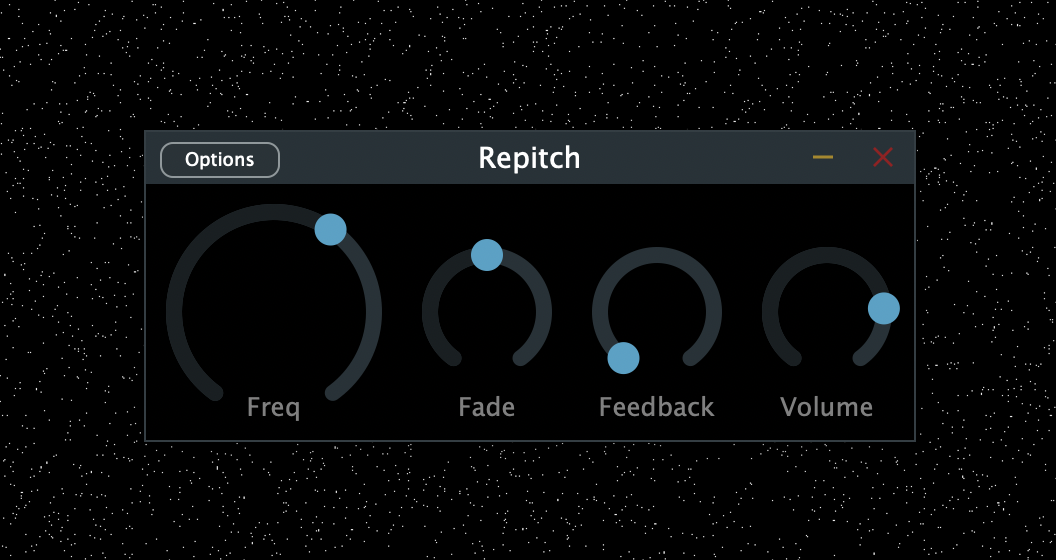
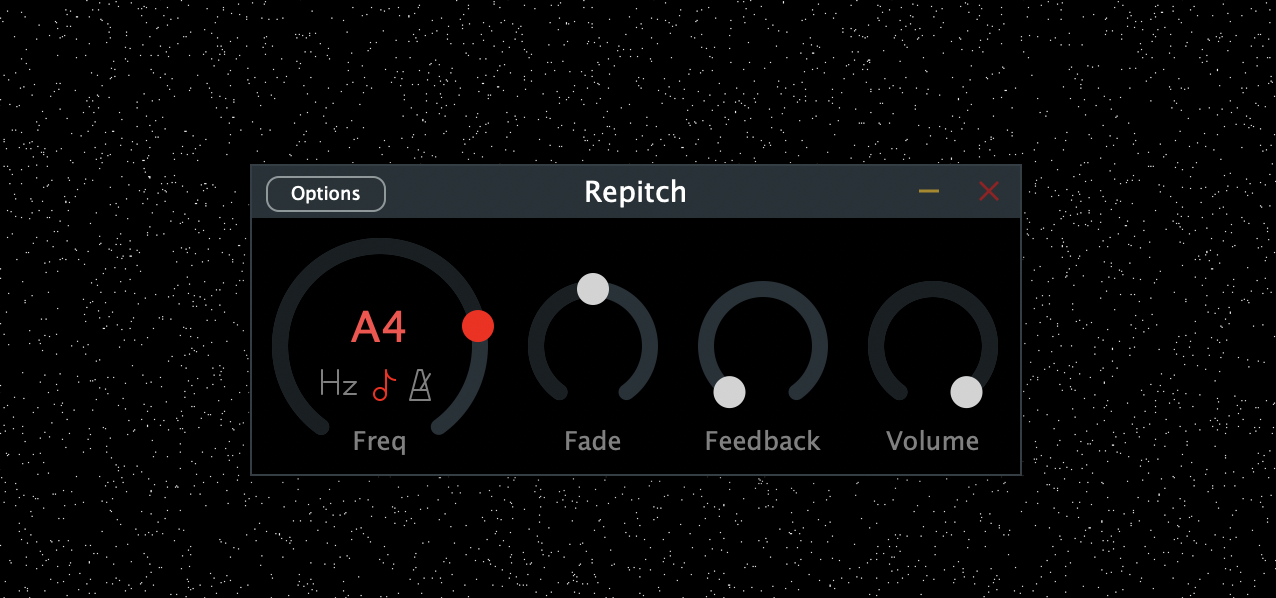
Add pitch + tempo tuning, tanh on output

Changed region(s): [[0.125, 0.2125, 0.875, 0.8196]]

diff --git a/Source/PluginEditor.cpp b/Source/PluginEditor.cpp
@@ -13,32 +13,116 @@
 
 //==============================================================================
 
-RepitchAudioProcessorEditor::RepitchAudioProcessorEditor (RepitchAudioProcessor& p, AudioProcessorValueTreeState& vts)
-    : AudioProcessorEditor (&p), processor (p), vts(vts)
+double TunableSlider::roundToNearestOctave(double value, double freq)
+{
+    return 69 + 12 * (round((value-69) / 12 - log2(freq/440)) + log2(freq/440));
+}
+
+double TunableSlider::snapValue(double input, DragMode dm)
+{
+    switch (mode)
+    {
+        case Hz:
+            return input;
+        case Pitch:
+            return round(input);
+        case Tempo:
+            return roundToNearestOctave(input, bpm/60);
+    }
+}
+
+String TunableSlider::getTextFromValue(double value)
+{
+    switch (mode)
+    {
+        case Hz:
+            return String(440 * pow(2, (value - 69) / 12));
+        case Pitch:
+        {
+            String noteNames[12] = {"C","C#","D","D#","E","F","F#","G","G#","A","A#","B"};
+            return noteNames[int(value+1200)%12] + String(floor(value/12)-1);
+        }
+        case Tempo:
+            double tempoValue = pow(2,(value-69) / 12 - log2(bpm/60/440));
+            if (tempoValue>1)
+                return "1/" + String(round(tempoValue));
+            else
+                return String(round(1/tempoValue));
+    }
+}
+
+void TunableSlider::paint(Graphics& g)
+{
+    Slider::paint(g);
+    g.setColour(findColour(Slider::thumbColourId).brighter());
+    g.setFont(25.f);
+    g.drawText(getTextFromValue(getValue()), 28, 36, 72, 36, Justification::centred, false);
+}
+
+void LineButton::paintButton(Graphics& g, bool highlighted, bool down)
+{
+    g.setColour(getToggleState() || down ? onColour : offColour);
+    g.strokePath(path, PathStrokeType(1, PathStrokeType::JointStyle::curved, PathStrokeType::EndCapStyle::rounded));
+}
+
+//==============================================================================
+
+RepitchAudioProcessorEditor::RepitchAudioProcessorEditor (RepitchAudioProcessor& p, AudioProcessorValueTreeState& vts) :
+    AudioProcessorEditor (&p),
+    processor (p),
+    vts(vts),
+    pitchSlider(Slider::RotaryVerticalDrag, Slider::NoTextBox, p.bpm),
+    hzButton("Hz", "M 1 4 L 1 16 M 9 4 L 9 16 M 2 10 L 9 10 M 18 10 L 12 16 M 12 10 L 18 10 M 12 16 L 18 16", Colours::cyan, Colours::grey),
+    noteButton("Musical Note", "M 13 16 A 3 3 0 1 0 7 16 A 3 3 0 1 0 13 16 L 13 4 A 5 5 0 0 0 18 9", Colours::red, Colours::grey),
+    tempoButton("Metronome", "M 5 19 L 9 4 L 11 4 L 15 19 L 5 19 M 6.33333 14 L 13.66666 14 M 10 14 L 15 6", Colours::lime, Colours::grey),
+    fadeSlider(Slider::RotaryVerticalDrag, Slider::NoTextBox),
+    feedbackSlider(Slider::RotaryVerticalDrag, Slider::NoTextBox),
+    volumeSlider(Slider::RotaryVerticalDrag, Slider::NoTextBox)
 {
     // Make sure that before the constructor has finished, you've set the
     // editor's size to whatever you need it to be.
-    setSize (3*splashWidth, splashWidth);
+    setSize (3*scale, scale);
     
-    freqSlider.setSliderStyle (Slider::RotaryVerticalDrag);
-    freqSlider.setTextBoxStyle (Slider::NoTextBox, false, 90, 0);
-    addAndMakeVisible (&freqSlider);
-    pitchAttachment.reset(new SliderAttachment (vts, "pitch", freqSlider));
+    addAndMakeVisible (&pitchSlider);
+    pitchAttachment.reset(new SliderAttachment (vts, "pitch", pitchSlider));
     
-    fadeSlider.setSliderStyle (Slider::RotaryVerticalDrag);
-    fadeSlider.setTextBoxStyle (Slider::NoTextBox, false, 90, 0);
+    addAndMakeVisible(&hzButton);
+    hzButton.setRadioGroupId(7);
+    hzButton.setClickingTogglesState(true);
+    hzButton.onClick = [this](){
+        pitchSlider.setColour(Slider::thumbColourId, hzButton.onColour);
+        pitchSlider.setMode(TunableSlider::Hz);
+    };
+    
+    addAndMakeVisible(&noteButton);
+    noteButton.setRadioGroupId(7);
+    noteButton.setClickingTogglesState(true);
+    noteButton.onClick = [this](){
+        pitchSlider.setColour(Slider::thumbColourId, noteButton.onColour);
+        pitchSlider.setMode(TunableSlider::Pitch);
+    };
+    
+    addAndMakeVisible(&tempoButton);
+    tempoButton.setRadioGroupId(7);
+    tempoButton.setClickingTogglesState(true);
+    tempoButton.onClick = [this](){
+        pitchSlider.setColour(Slider::thumbColourId, tempoButton.onColour);
+        pitchSlider.setMode(TunableSlider::Tempo);
+    };
+    
     addAndMakeVisible (&fadeSlider);
+    fadeSlider.setColour(Slider::thumbColourId, Colours::lightgrey);
     fadeAttachment.reset(new SliderAttachment (vts, "fade", fadeSlider));
     
-    fdbkSlider.setSliderStyle (Slider::RotaryVerticalDrag);
-    fdbkSlider.setTextBoxStyle (Slider::NoTextBox, false, 90, 0);
-    addAndMakeVisible (&fdbkSlider);
-    feedbackAttachment.reset(new SliderAttachment (vts, "feedback", fdbkSlider));
+    addAndMakeVisible (&feedbackSlider);
+    feedbackSlider.setColour(Slider::thumbColourId, Colours::lightgrey);
+    feedbackAttachment.reset(new SliderAttachment (vts, "feedback", feedbackSlider));
     
-    gainSlider.setSliderStyle (Slider::RotaryVerticalDrag);
-    gainSlider.setTextBoxStyle (Slider::NoTextBox, false, 90, 0);
-    addAndMakeVisible (&gainSlider);
-    volumeAttachment.reset(new SliderAttachment (vts, "volume", gainSlider));
+    addAndMakeVisible (&volumeSlider);
+    volumeSlider.setColour(Slider::thumbColourId, Colours::lightgrey);
+    volumeAttachment.reset(new SliderAttachment (vts, "volume", volumeSlider));
+    
+    hzButton.triggerClick();
 }
 
 RepitchAudioProcessorEditor::~RepitchAudioProcessorEditor()
@@ -49,16 +133,16 @@ RepitchAudioProcessorEditor::~RepitchAudioProcessorEditor()
 void RepitchAudioProcessorEditor::paint (Graphics& g)
 {
     // (Our component is opaque, so we must completely fill the background with a solid colour)
-    g.fillAll (Colours::black);
+    g.fillAll(Colours::black);
 
-    g.setColour (Colours::grey);
+    g.setColour(Colours::grey);
 
     g.setFont(15);
     
-    g.drawText("Freq", 0, 0, splashWidth, splashWidth*0.93, Justification::centredBottom);
-    g.drawText("Fade", splashWidth, 0, 2*splashWidth/3, splashWidth*0.93, Justification::centredBottom);
-    g.drawText("Feedback", 5*splashWidth/3, 0, 2*splashWidth/3, splashWidth*0.93, Justification::centredBottom);
-    g.drawText("Volume", 7*splashWidth/3, 0, 2*splashWidth/3, splashWidth*0.93, Justification::centredBottom);
+    g.drawText("Freq", 0, 0, scale, scale*0.93, Justification::centredBottom);
+    g.drawText("Fade", scale, 0, 2*scale/3, scale*0.93, Justification::centredBottom);
+    g.drawText("Feedback", 5*scale/3, 0, 2*scale/3, scale*0.93, Justification::centredBottom);
+    g.drawText("Volume", 7*scale/3, 0, 2*scale/3, scale*0.93, Justification::centredBottom);
 }
 
 void RepitchAudioProcessorEditor::resized()
@@ -66,9 +150,11 @@ void RepitchAudioProcessorEditor::resized()
     // This is generally where you'll want to lay out the positions of any
     // subcomponents in your editor..
     
-    freqSlider.setBounds (0, 0, splashWidth, splashWidth);
-    fadeSlider.setBounds (splashWidth, 0, 2*splashWidth/3, splashWidth);
-    fdbkSlider.setBounds (5*splashWidth/3, 0, 2*splashWidth/3, splashWidth);
-    gainSlider.setBounds (7*splashWidth/3, 0, 2*splashWidth/3, splashWidth);
-    
+    pitchSlider.setBounds (0, 0, scale, scale);
+    hzButton.setBounds(34,72,20,30);
+    noteButton.setBounds(54,72, 20, 30);
+    tempoButton.setBounds(74,72,20,30);
+    fadeSlider.setBounds (scale, 0, 2*scale/3, scale);
+    feedbackSlider.setBounds (5*scale/3, 0, 2*scale/3, scale);
+    volumeSlider.setBounds (7*scale/3, 0, 2*scale/3, scale);
 }

diff --git a/Source/PluginProcessor.cpp b/Source/PluginProcessor.cpp
@@ -13,62 +13,33 @@
 
 //==============================================================================
 
-bool RingBuffer::pushFrom(AudioBuffer<float>& buffer, int sample)
+void RingBuffer::pushFrom(AudioBuffer<float>& buffer, int sample, float gain)
 {
     writeSample++;
     writeSample %= getNumSamples();
-    bool clip = false;
     for (int channel=0; channel<buffer.getNumChannels(); ++channel)
     {
-        float value = buffer.getSample(channel, sample);
-        if (value < -1) {value = -1; clip = true;}
-        if (value > 1) {value = 1; clip = true;}
-        setSample(channel, writeSample, value);
+        setSample(channel, writeSample, tanh(gain*buffer.getSample(channel, sample)));
     }
-    return clip;
 }
 
-bool RingBuffer::addFrom(AudioBuffer<float>& buffer, int sample, float gain)
+void RingBuffer::addFrom(AudioBuffer<float>& buffer, int sample, float gain)
 {
-    bool clip = false;
     for (int channel=0; channel<buffer.getNumChannels(); ++channel)
     {
-        addSample(channel, writeSample, gain * buffer.getSample(channel, sample));
-        if (getSample(channel, writeSample) > 1)
-        {
-            setSample(channel, writeSample, 1);
-            clip = true;
-        }
-        if (getSample(channel, writeSample) < -1)
-        {
-            setSample(channel, writeSample, -1);
-            clip = true;
-        }
+        setSample(channel, writeSample, tanh(atanh(getSample(channel, writeSample)) + gain * buffer.getSample(channel, sample)));
     }
-    return clip;
 }
 
-bool RingBuffer::addTo(AudioSampleBuffer &buffer, int sample, int delay, float gain)
+void RingBuffer::addTo(AudioSampleBuffer &buffer, int sample, int delay, float gain)
 {
     int index = (writeSample-delay) % getNumSamples();
-    bool clip = false;
     if (index<0)
         index += getNumSamples();
     for (int channel=0; channel<buffer.getNumChannels(); ++channel)
     {
-        buffer.addSample(channel, sample, gain * getSample(channel, index));
-        if (buffer.getSample(channel, sample) > 1)
-        {
-            buffer.setSample(channel, sample, 1);
-            clip = true;
-        }
-        if (buffer.getSample(channel, sample) < -1)
-        {
-            buffer.setSample(channel, sample, -1);
-            clip = true;
-        }
+        buffer.setSample(channel, sample, tanh(atanh(buffer.getSample(channel, sample)) + gain * getSample(channel, index)));
     }
-    return clip;
 }
 
 //==============================================================================
@@ -233,6 +204,12 @@ void RepitchAudioProcessor::processBlock (AudioBuffer<float>& buffer, MidiBuffer
     // the samples and the outer loop is handling the channels.
     // Alternatively, you can process the samples with the channels
     // interleaved by keeping the same state.
+    AudioPlayHead* ph = getPlayHead();
+    AudioPlayHead::CurrentPositionInfo cpi;
+    cpi.resetToDefault();
+    if (ph != nullptr)
+        ph->getCurrentPosition(cpi);
+    bpm = cpi.bpm;
     
     MidiBuffer::Iterator midi (midiMessages);
     MidiMessage m;
@@ -265,7 +242,7 @@ void RepitchAudioProcessor::processBlock (AudioBuffer<float>& buffer, MidiBuffer
             }
         }
         
-        ring.pushFrom(buffer, sample);
+        ring.pushFrom(buffer, sample, volume);
         buffer.clear(sample, 1);
         
         for (Voice& voice : voices)
@@ -274,8 +251,8 @@ void RepitchAudioProcessor::processBlock (AudioBuffer<float>& buffer, MidiBuffer
             {
                 voice.gain += pow(5*getSampleRate(),-fade) * (voice.gainTarget - voice.gain);
                 
-                ring.addTo(buffer, sample, voice.delay, volume/(1-voice.stride)*voice.gain*pow(sin(voice.delay / period * M_PI / 2), 2));
-                ring.addTo(buffer, sample, voice.delay + period, volume/(1-voice.stride)*voice.gain*pow(cos(voice.delay / period * M_PI / 2), 2));
+                ring.addTo(buffer, sample, voice.delay, voice.gain/(1-voice.stride)*pow(sin(voice.delay / period * M_PI / 2), 2));
+                ring.addTo(buffer, sample, voice.delay + period, voice.gain/(1-voice.stride)*pow(cos(voice.delay / period * M_PI / 2), 2));
                 
                 voice.delay += voice.stride;
                 voice.delay = fmod(voice.delay, period);
@@ -283,7 +260,7 @@ void RepitchAudioProcessor::processBlock (AudioBuffer<float>& buffer, MidiBuffer
                     voice.delay += period;
             }
         }
-        ring.addFrom(buffer, sample, feedback);
+        ring.addFrom(buffer, sample, -feedback);
     }
 }
 

diff --git a/Source/PluginEditor.h b/Source/PluginEditor.h
@@ -19,6 +19,31 @@
 
 typedef AudioProcessorValueTreeState::SliderAttachment SliderAttachment;
 
+class TunableSlider : public Slider
+{
+public:
+    TunableSlider(SliderStyle ss, TextEntryBoxPosition tebp, std::atomic<double>& bpm) : Slider(ss, tebp), bpm(bpm) {};
+    enum Mode {Hz, Pitch, Tempo};
+    void setMode(Mode m) {mode = m; setValue(snapValue(getValue(), DragMode::notDragging)); repaint();};
+    
+private:
+    Mode mode = Hz;
+    std::atomic<double>& bpm;
+    double snapValue(double, DragMode) override;
+    String getTextFromValue(double) override;
+    void paint(Graphics&) override;
+    
+    static double roundToNearestOctave(double input, double freq);
+};
+
+struct LineButton : Button
+{
+    LineButton(String name, String svgPath, Colour onColour, Colour offColour) : Button(name), path(Drawable::parseSVGPath(svgPath)), onColour(onColour), offColour(offColour) {};
+    Path path;
+    Colour onColour, offColour;
+    void paintButton(Graphics&, bool, bool) override;
+};
+
 class RepitchAudioProcessorEditor  : public AudioProcessorEditor
 {
 public:
@@ -34,9 +59,11 @@ private:
     // access the processor object that created it.
     RepitchAudioProcessor& processor;
     AudioProcessorValueTreeState& vts;
-    Slider freqSlider, fadeSlider, fdbkSlider, gainSlider;
+    TunableSlider pitchSlider;
+    LineButton hzButton, noteButton, tempoButton;
+    Slider fadeSlider, feedbackSlider, volumeSlider;
     std::unique_ptr<SliderAttachment> pitchAttachment, fadeAttachment, feedbackAttachment, volumeAttachment;
-    int splashWidth = 128, splashHeight = 128;
+    int scale = 128;
 
     JUCE_DECLARE_NON_COPYABLE_WITH_LEAK_DETECTOR (RepitchAudioProcessorEditor)
 };

diff --git a/Source/PluginProcessor.h b/Source/PluginProcessor.h
@@ -19,9 +19,9 @@
 struct RingBuffer : AudioSampleBuffer
 {
     using AudioSampleBuffer::AudioSampleBuffer;
-    bool pushFrom(AudioSampleBuffer& buffer, int sample);
-    bool addFrom(AudioSampleBuffer& buffer, int sample, float gain);
-    bool addTo(AudioSampleBuffer& buffer, int sample, int delay, float gain);
+    void pushFrom(AudioSampleBuffer& buffer, int sample, float gain);
+    void addFrom(AudioSampleBuffer& buffer, int sample, float gain);
+    void addTo(AudioSampleBuffer& buffer, int sample, int delay, float gain);
     
 private:
     int writeSample = -1;
@@ -71,6 +71,7 @@ public:
     //==============================================================================
     void getStateInformation (MemoryBlock& destData) override;
     void setStateInformation (const void* data, int sizeInBytes) override;
+    std::atomic<double> bpm;
 
 private:
     JUCE_DECLARE_NON_COPYABLE_WITH_LEAK_DETECTOR (RepitchAudioProcessor)
